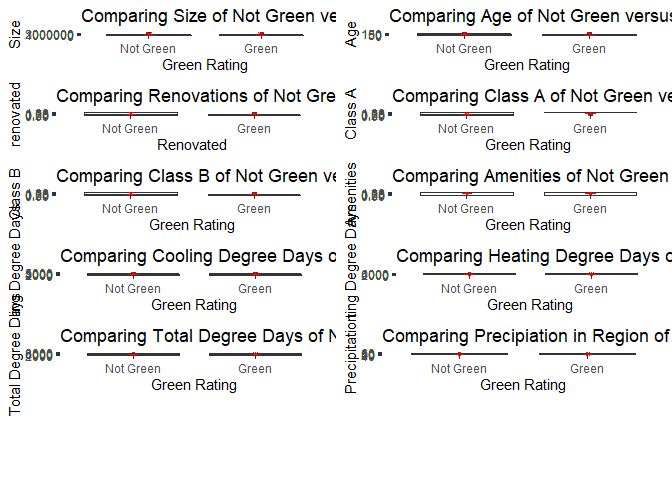
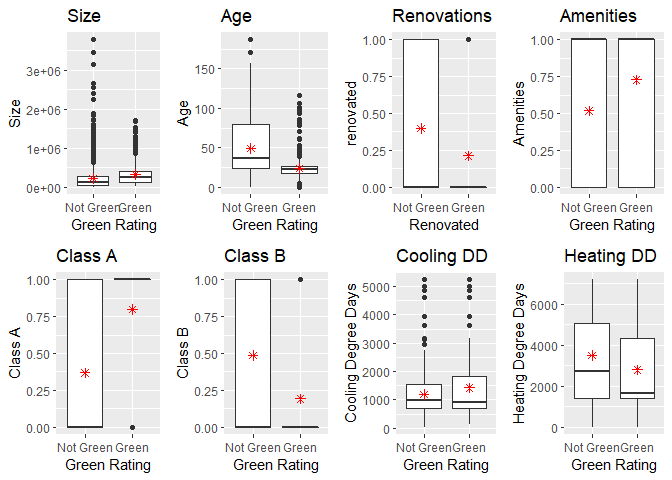
q1

diff --git a/Walker_Jocelyne_Exercises.md b/Walker_Jocelyne_Exercises.md
@@ -43,10 +43,150 @@ consider more of the outliers.
 
 **What variables appear to be confounding?**
 
-I compared boxplots of each of the predictor variables for Not Green
-versus Green buildings
+First, I built a correlation matrix to identify how each of the building
+predictors are related.
+
+-   We see that a building’s Green Rating is slightly positively
+    correlated with Class A, more desirable buildings and negatively
+    correlated with Age.
+
+-   Building Revenue per Square Foot, Rent, and Cluster Rent are all
+    positively correlated. This makes sense as buildings with a higher
+    rent per square foot should have a higher revenue per square foot.
+    Cluster rent and rent tend to be positively correlated as well, as
+    buildings will have similar rents to other buildings in their local
+    markets.
+
+![](Walker_Jocelyne_Exercises_files/figure-markdown_strict/1.1.0-1.png)
+
+I then compared boxplots of each of the predictor variables for Not
+Green versus Green buildings, and the charts for the predictors that may
+be confounding variables are shown below.
 
 ![](Walker_Jocelyne_Exercises_files/figure-markdown_strict/1.1.a-1.png)
+
+-   Green Buildings tend to be **larger in size** and **younger in age**
+    on average.
+
+-   Green Buildings are also **less likely to have been renovated** and
+    **have more amenities.**
+
+-   Green Buildings are more likely to be **Class A** buildings, the
+    highest quality properties, while Not Green Buildings are more
+    likely to be the lower **Class B** buildings.
+
+-   Green Buildings more often situated in warmer climates that have
+    **higher cooling degree days** and fewer **heating degree days.**
+
+**So, is the increased Revenue Per Square Foot in Green buildings
+*really* due to their Green Rating?** Or, instead, is it because they
+are newer, larger, more desirable buildings that just happen to be green
+certified? To answer this question, we must “adjust” for these
+confounding variables in order to compare buildings where the *only
+difference* is a green certification.
+
+Theoretically, to answer this developer’s question about the economic
+impact of “going green,” we’d like to have two identical 250,000 square
+foot buildings on East Cesar Chavez: one Green Rated and one Not Green
+Rated. Only then could we assess whether the 5% expected premium for
+green certification would hold true. However, we can’t do this in East
+Austin. Instead, we *can* **match our data in order to balance the green
+and non-green building groups.**
+
+The goal of our analysis is to eliminate those 8 confounding variables
+described above like age, size, and class. The matching process entails:
+
+-   For each green building, finding a non-green building that is very
+    similar in confounding variables. For example, they have similar
+    ages, stories, and amenities.
+
+-   Pairing the data up into a new dataset so each green building has a
+    “matched” non-green building.
+
+<!-- -->
+
+    ## 
+    ## Call:
+    ## matchit(formula = green_rating ~ size + age + class_a + class_b + 
+    ##     renovated + amenities + cd_total_07 + hd_total07, data = green_cl)
+    ## 
+    ## Summary of balance for all data:
+    ##             Means Treated Means Control  SD Control  Mean Diff     eQQ Med
+    ## distance           0.1742        0.0803      0.0825     0.0939      0.0993
+    ## size          326286.8171   230299.3257 299437.1103 95987.4914 107554.5000
+    ## age               23.9336       49.1663     32.3225   -25.2327     14.0000
+    ## class_a            0.7965        0.3680      0.4823     0.4285      0.0000
+    ## class_b            0.1932        0.4854      0.4998    -0.2922      0.0000
+    ## renovated          0.2139        0.3971      0.4893    -0.1832      0.0000
+    ## amenities          0.7271        0.5173      0.4997     0.2098      0.0000
+    ## cd_total_07     1427.6844     1202.1522   1089.0898   225.5321    134.0000
+    ## hd_total07      2768.6932     3479.6950   1970.0977  -711.0017    668.0000
+    ##                eQQ Mean      eQQ Max
+    ## distance         0.0939       0.1399
+    ## size        102480.9749 2059803.0000
+    ## age             25.2861      63.0000
+    ## class_a          0.4277       1.0000
+    ## class_b          0.2920       1.0000
+    ## renovated        0.1829       1.0000
+    ## amenities        0.2094       1.0000
+    ## cd_total_07    243.5118    1482.0000
+    ## hd_total07     711.9159    2044.0000
+    ## 
+    ## 
+    ## Summary of balance for matched data:
+    ##             Means Treated Means Control  SD Control  Mean Diff    eQQ Med
+    ## distance           0.1742        0.1741      0.0776     0.0000     0.0001
+    ## size          326286.8171   291389.9661 315069.1079 34896.8510 49234.0000
+    ## age               23.9336       23.2021     14.7229     0.7316     0.0000
+    ## class_a            0.7965        0.7802      0.4144     0.0162     0.0000
+    ## class_b            0.1932        0.1991      0.3996    -0.0059     0.0000
+    ## renovated          0.2139        0.1917      0.3940     0.0221     0.0000
+    ## amenities          0.7271        0.6917      0.4621     0.0354     0.0000
+    ## cd_total_07     1427.6844     1584.8245   1323.9999  -157.1401     0.0000
+    ## hd_total07      2768.6932     2623.4366   1754.1965   145.2566     0.0000
+    ##               eQQ Mean     eQQ Max
+    ## distance        0.0002      0.0026
+    ## size        47369.8215 828758.0000
+    ## age             0.8968     20.0000
+    ## class_a         0.0162      1.0000
+    ## class_b         0.0059      1.0000
+    ## renovated       0.0221      1.0000
+    ## amenities       0.0354      1.0000
+    ## cd_total_07   158.9985   1696.0000
+    ## hd_total07    172.6106   1183.0000
+    ## 
+    ## Percent Balance Improvement:
+    ##             Mean Diff.  eQQ Med eQQ Mean  eQQ Max
+    ## distance       99.9803  99.9367  99.8336  98.1680
+    ## size           63.6444  54.2241  53.7770  59.7652
+    ## age            97.1007 100.0000  96.4536  68.2540
+    ## class_a        96.2136   0.0000  96.2069   0.0000
+    ## class_b        97.9807   0.0000  97.9798   0.0000
+    ## renovated      87.9244   0.0000  87.9032   0.0000
+    ## amenities      83.1271   0.0000  83.0986   0.0000
+    ## cd_total_07    30.3247 100.0000  34.7060 -14.4399
+    ## hd_total07     79.5701 100.0000  75.7541  42.1233
+    ## 
+    ## Sample sizes:
+    ##           Control Treated
+    ## All          6976     678
+    ## Matched       678     678
+    ## Unmatched    6298       0
+    ## Discarded       0       0
+
+![](Walker_Jocelyne_Exercises_files/figure-markdown_strict/1.1.b-1.png)
+
+Balancing the data allows me to compare like with like. This eliminates
+the effect of the confounding variables because now the confounders are
+equal between the two different groups. It is now reasonable to compare
+the Revenue per Square Foot of Green and Non-Green buildings and make a
+conclusion about the impact of green rating because green rating is the
+only thing that is different between the two groups.
+
+This is a better approach because we know that green rating is the only
+variable that is impacting differences in revenue per square foot. In
+the first situation, the differences in groups could have been caused by
+a number of confounding variables.
 
 Visual story telling part 2: flights at ABIA
 --------------------------------------------
